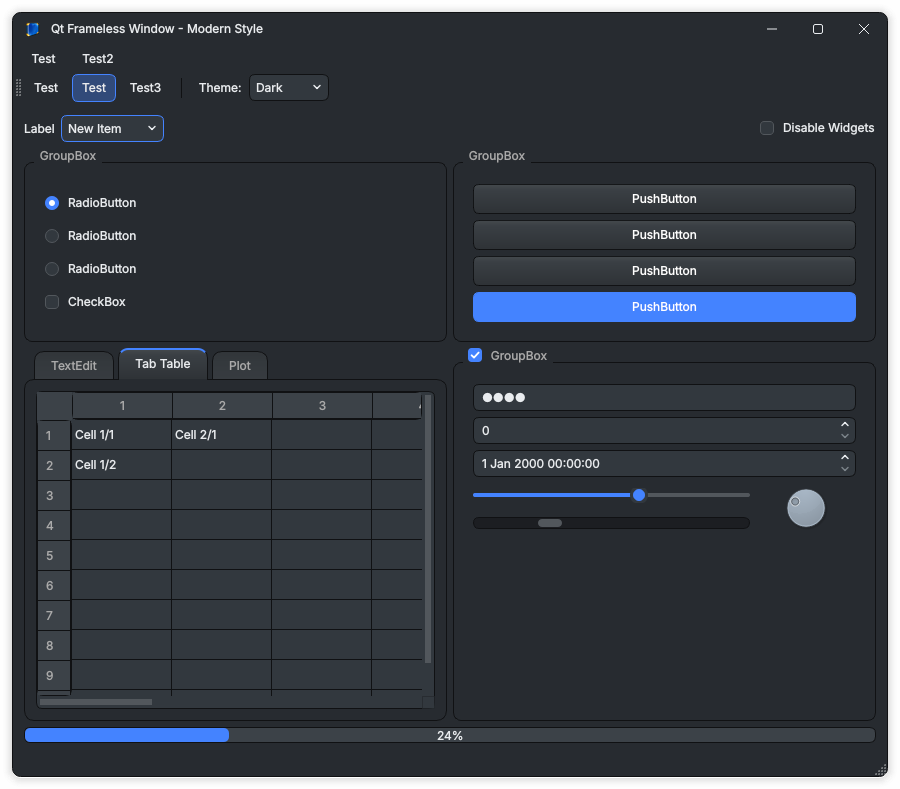
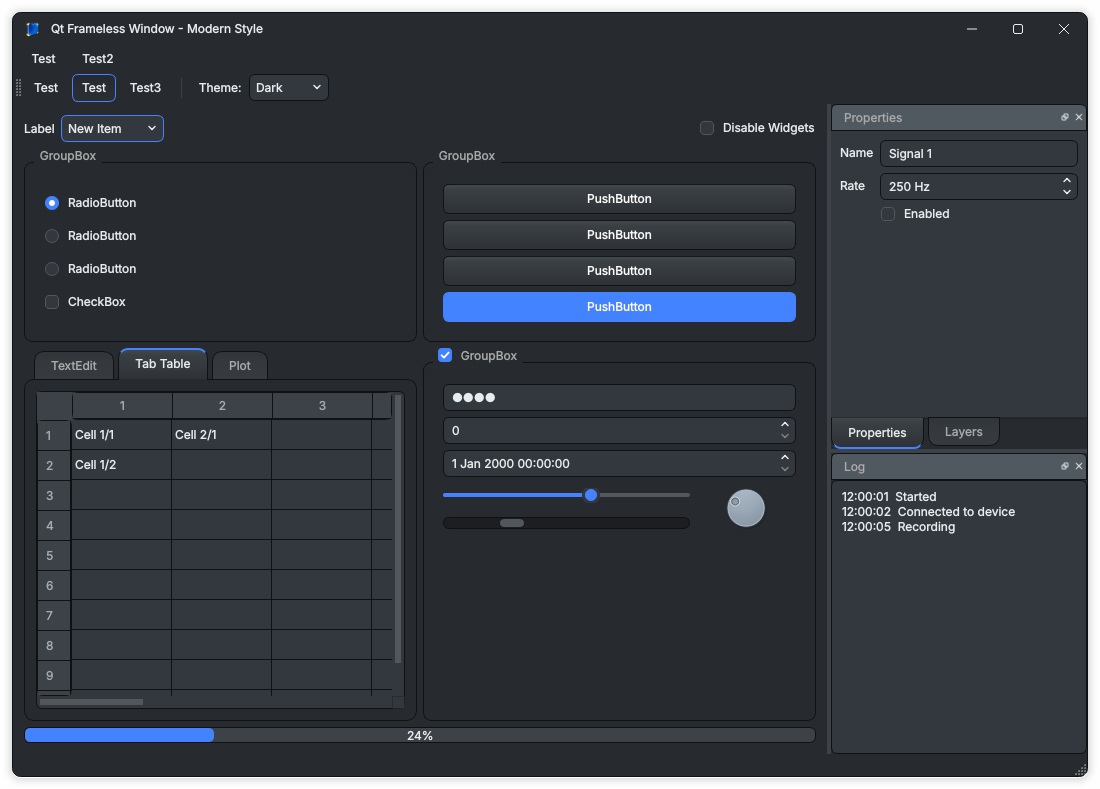
Dock widgets as Slate card panels; splitters and separators in alternate-base
- Dock widget contents use Slate's card background ($card-bg #32383e) and
  the title bar its card header ($card-cap-bg #515960), with rounded top
  corners; close/float buttons are drawn in the theme's text colour.
- QSplitter handles, QMainWindow separators (between dock widgets) and
  menu/toolbar separators use palette(alternate-base).
- Demo: Properties/Layers (tabbed) and Log dock widgets; new screenshots.

Claude-Session: https://claude.ai/code/session_01Kn14e4JxntSWfujh7GdBDb

diff --git a/modernstyle/modernstyle.cpp b/modernstyle/modernstyle.cpp
@@ -46,6 +46,8 @@ QHash<QString, QColor> themeColors(bool dark, const QColor &accent)
         c["tooltip"] = QColor("#32383e");         // $popover-bg
         c["tab"] = QColor("#1c1e22");             // scroll bar tracks: $progress-bg, darken($gray-900, 5%)
         c["tabHover"] = QColor("#3e444c");
+        c["panel"] = QColor("#32383e");           // dock widgets: $card-bg, lighten($body-bg, 5%)
+        c["panelHeader"] = QColor("#515960");     // their title bar: $card-cap-bg, lighten($gray-800, 10%)
     } else {
         c["window"] = QColor("#f3f3f3");
         c["surface"] = QColor("#ffffff");
@@ -62,6 +64,8 @@ QHash<QString, QColor> themeColors(bool dark, const QColor &accent)
         c["tooltip"] = QColor("#ffffff");
         c["tab"] = QColor("#e7e7e7");
         c["tabHover"] = QColor("#dedede");
+        c["panel"] = QColor("#ffffff");
+        c["panelHeader"] = QColor("#e8e8e8");
     }
     // The accent, a little lighter on dark backgrounds so it stands out
     c["accent"] = dark ? accent.lighter(115) : accent;
@@ -173,6 +177,29 @@ Painter chevron(const QColor &color, bool up)
         const double y1 = up ? 6.5 : 3.5, y2 = up ? 3.5 : 6.5;
         const QPointF points[] = { { 2.0, y1 }, { 5.0, y2 }, { 8.0, y1 } };
         p.drawPolyline(points, 3);
+    };
+}
+
+// 12 x 12 dock widget title bar buttons: a cross (close), or two
+// overlapping squares (float / dock again), like the window's title bar
+Painter dockClose(const QColor &color)
+{
+    return [=](QPainter &p) {
+        QPen pen(color, 1.5);
+        pen.setCapStyle(Qt::RoundCap);
+        p.setPen(pen);
+        p.drawLine(QPointF(2, 2), QPointF(10, 10));
+        p.drawLine(QPointF(10, 2), QPointF(2, 10));
+    };
+}
+
+Painter dockFloat(const QColor &color)
+{
+    return [=](QPainter &p) {
+        p.setPen(QPen(color, 1.3));
+        p.setBrush(Qt::NoBrush);
+        p.drawRoundedRect(QRectF(4.5, 1.5, 6, 6), 1, 1);           // back
+        p.drawRoundedRect(QRectF(1.5, 4.5, 6, 6), 1, 1);           // front
     };
 }
 
@@ -418,7 +445,7 @@ QString ModernStyle::writeImages() const
     if (QFile::exists(prefix + QStringLiteral("chevron-down.png")))
         return prefix;    // already drawn
 
-    const QSize arrow(10, 10), indicator(16, 16);
+    const QSize arrow(10, 10), indicator(16, 16), dockButton(12, 12);
     auto save = [&](const char *name, QSize size, const Painter &paint) {
         saveImage(prefix + QLatin1String(name) + QStringLiteral(".png"), size, paint);
     };
@@ -442,6 +469,9 @@ QString ModernStyle::writeImages() const
     save("radio-checked-hover", indicator, radioButton({}, c["accentHover"], true, c["accentText"]));
     save("radio-disabled", indicator, radioButton(c["border"], c["window"], false, {}));
     save("radio-checked-disabled", indicator, radioButton({}, c["border"], true, c["textDisabled"]));
+
+    save("dock-close", dockButton, dockClose(c["text"]));
+    save("dock-float", dockButton, dockFloat(c["text"]));
     return prefix;
 }
 

diff --git a/demo/mainwindow.cpp b/demo/mainwindow.cpp
@@ -15,8 +15,15 @@
 #include <QtMath>
 #endif
 
+#include <QCheckBox>
 #include <QComboBox>
+#include <QDockWidget>
+#include <QFormLayout>
 #include <QLabel>
+#include <QLineEdit>
+#include <QListWidget>
+#include <QPlainTextEdit>
+#include <QSpinBox>
 #include <QToolBar>
 
 MainWindow::MainWindow(ModernStyle *style, QWidget *parent)
@@ -46,6 +53,39 @@ MainWindow::MainWindow(ModernStyle *style, QWidget *parent)
         ui->mainToolBar->addWidget(new QLabel(tr("  Theme: "), this));
         ui->mainToolBar->addWidget(themes);
     }
+
+    // Dock widgets: a form, a list (tabbed with the form) and a log. They
+    // are panels like Slate's cards: a lighter background with a header.
+    auto *properties = new QWidget;
+    auto *form = new QFormLayout(properties);
+    form->addRow(tr("Name"), new QLineEdit(tr("Signal 1")));
+    auto *rate = new QSpinBox;
+    rate->setRange(1, 10000);
+    rate->setValue(250);
+    rate->setSuffix(tr(" Hz"));
+    form->addRow(tr("Rate"), rate);
+    form->addRow(QString(), new QCheckBox(tr("Enabled")));
+    auto *propertiesDock = new QDockWidget(tr("Properties"), this);
+    propertiesDock->setObjectName(QStringLiteral("propertiesDock"));
+    propertiesDock->setWidget(properties);
+    addDockWidget(Qt::RightDockWidgetArea, propertiesDock);
+
+    auto *layers = new QListWidget;
+    layers->addItems({ tr("Background"), tr("Grid"), tr("Signals"), tr("Markers") });
+    auto *layersDock = new QDockWidget(tr("Layers"), this);
+    layersDock->setObjectName(QStringLiteral("layersDock"));
+    layersDock->setWidget(layers);
+    addDockWidget(Qt::RightDockWidgetArea, layersDock);
+    tabifyDockWidget(propertiesDock, layersDock);
+    propertiesDock->raise();
+
+    auto *log = new QPlainTextEdit;
+    log->setReadOnly(true);
+    log->setPlainText(tr("12:00:01  Started\n12:00:02  Connected to device\n12:00:05  Recording"));
+    auto *logDock = new QDockWidget(tr("Log"), this);
+    logDock->setObjectName(QStringLiteral("logDock"));
+    logDock->setWidget(log);
+    addDockWidget(Qt::RightDockWidgetArea, logDock);
 
 #ifdef DEMO_WITH_QWT
     // A Qwt plot with a few curves, styled by qwtmodernstyle.h

diff --git a/demo/main.cpp b/demo/main.cpp
@@ -47,7 +47,7 @@ int main(int argc, char *argv[])
     if (parser.isSet("tab"))
         mainWindow->showTab(parser.value("tab").toInt());
     window.setContent(mainWindow);
-    window.resize(900, 620);
+    window.resize(1100, 680);
     window.show();
 
     if (parser.isSet("screenshot")) {

diff --git a/README.md b/README.md
@@ -25,6 +25,7 @@ Version 2 of this fork brings the original [Qt-Frameless-Window-DarkStyle](https
 - Switch at run time with `setTheme()`, change the accent with `setAccentColor()`.
 - Based on Qt's Fusion style, plus one readable style sheet (`modernstyle/modernstyle.qss`) with named colours (`@accent`, `@border`, ...) you can edit.
 - Check boxes, radio buttons and arrows are drawn in the theme's colours at 1× and 2×: no image files, no Qt SVG module needed.
+- **Dock widgets are panels like Slate's cards**: a lighter body (`$card-bg`, `#32383e`) and a header-coloured title bar (`$card-cap-bg`, `#515960`) with rounded top corners and clear close / float buttons. Splitter handles, the gaps between dock widgets and the menu and toolbar separators use `palette(alternate-base)`.
 - Toolbar buttons light up on hover like push buttons, checked ones included (a checked button gets brighter under the mouse).
 - Long combo box lists scroll: `style->setComboPopupMaxHeight(240)` caps every drop-down at 240 px, and `combo->setProperty("popupMaxHeight", 120)` sets a limit for a single combo box. Without either, `QComboBox::maxVisibleItems()` (10) applies.
 - `DarkStyle` still exists: `QApplication::setStyle(new DarkStyle)` keeps working (always dark).
